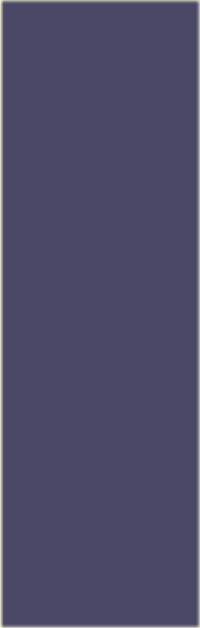
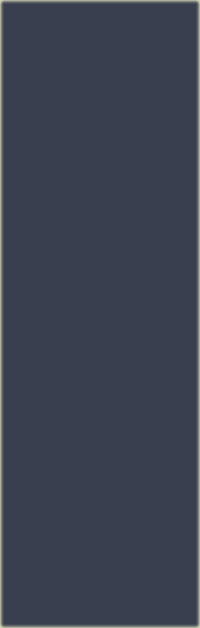
Development:update the skin

Changed region(s): [[0.0, 0.0, 0.03, 1.0]]

diff --git a/Source_Code/Gitmining/GitClient/src/main/resources/css/function_detail.css b/Source_Code/Gitmining/GitClient/src/main/resources/css/function_detail.css
@@ -1,12 +1,12 @@
 #name_label{
 	-fx-font-size:25px;
 	-fx-font-weight:bold;
-	-fx-text-fill:#000000;
+	-fx-text-fill:#ffffff;
 	-fx-effect:dropshadow(gaussian,rgba(255,255,255,0.5),0,0,0,1);
 }
 
 #inner_back{
-	-fx-background-color:rgb(240,240,240);
+	-fx-background-color:rgb(91,99,120);
 }
 #pane_back{
 	-fx-background-color:#ffffff;
@@ -15,7 +15,7 @@
 #related_label{
 	-fx-font-size:15px;
 	-fx-font-weight:bolder;
-	-fx-text-fill:#000000;
+	-fx-text-fill:#ffffff;
 	-fx-effect:dropshadow(gaussian,rgba(255,255,255,0.5),0,0,0,1);
 }
 
@@ -63,4 +63,6 @@
 .scroll-bar .thumb{
 	-fx-background-color:rgb(200,200,200);
 }
-
+#statis_back{
+	-fx-background-color:rgb(91,99,120);
+}

diff --git a/Source_Code/Gitmining/GitClient/src/main/resources/css/function_repolist.css b/Source_Code/Gitmining/GitClient/src/main/resources/css/function_repolist.css
@@ -1,9 +1,13 @@
 #label{
 	-fx-font-size:25px;
 	-fx-font-weight:bold;
-	-fx-text-fill:#000000;
+	-fx-text-fill:#ffffff;
 	-fx-effect:dropshadow(gaussian,rgba(255,255,255,0.5),0,0,0,1);
 	
+}
+
+#inner_back{
+	-fx-background-color:rgb(91,99,120);
 }
 
 .button:hover{
@@ -96,5 +100,6 @@
 #vbox{
 	-fx-effect:dropshadow(gaussian,rgba(255,255,255,0.5),0,0,0,1);
 }
+
 
 

diff --git a/Source_Code/Gitmining/GitClient/src/main/resources/css/function.css b/Source_Code/Gitmining/GitClient/src/main/resources/css/function.css
@@ -1,6 +1,10 @@
 #about_user{
 	-fx-font-size:20px;
 	-fx-font-weight:bold;
-	-fx-text-fill:#000000;
+	-fx-text-fill:#ffffff;
 	-fx-effect:dropshadow(gaussian,rgba(255,255,255,0.5),0,0,0,1);
+}
+
+#inner_back{
+	-fx-background-color:rgb(91,99,120);
 }

diff --git a/Source_Code/Gitmining/GitClient/src/main/resources/css/DisplayShelf.css b/Source_Code/Gitmining/GitClient/src/main/resources/css/DisplayShelf.css
@@ -1,6 +1,6 @@
 #displayshelf {
 
-    -fx-background-color: linear-gradient(to bottom, white 60, #FFFFFF 30.1%, white 100%);
+    -fx-background-color: transparent;
 
 }
 
